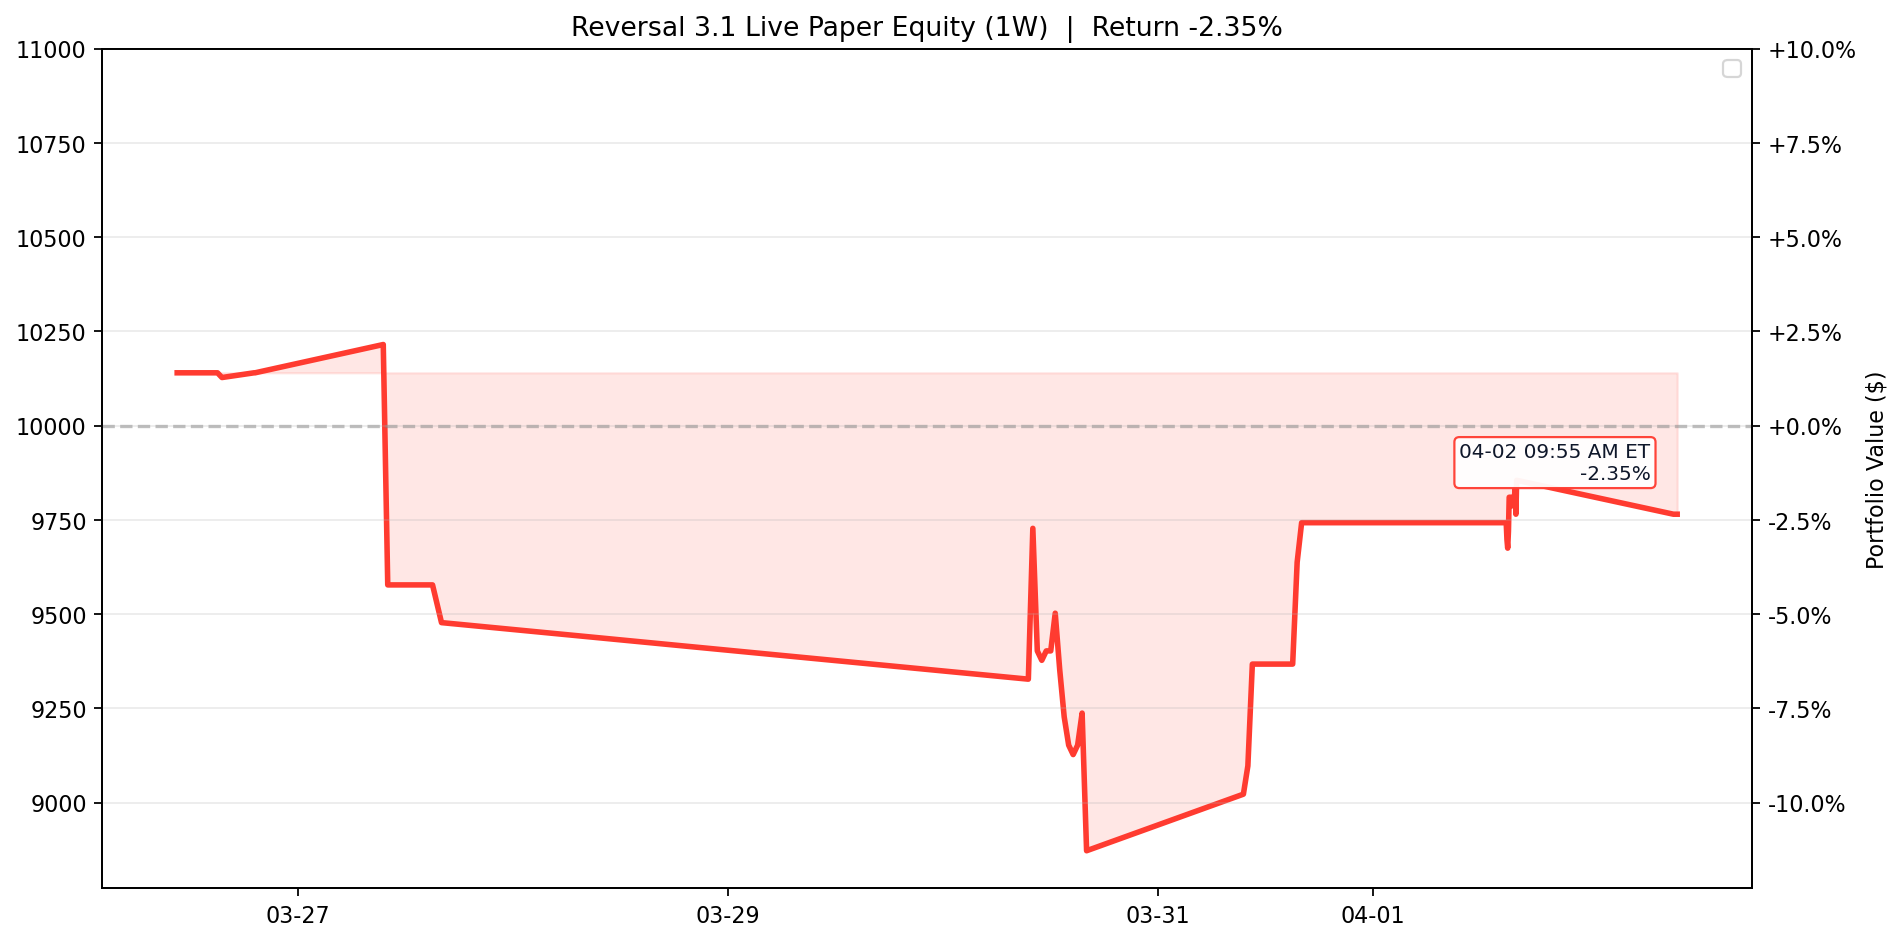
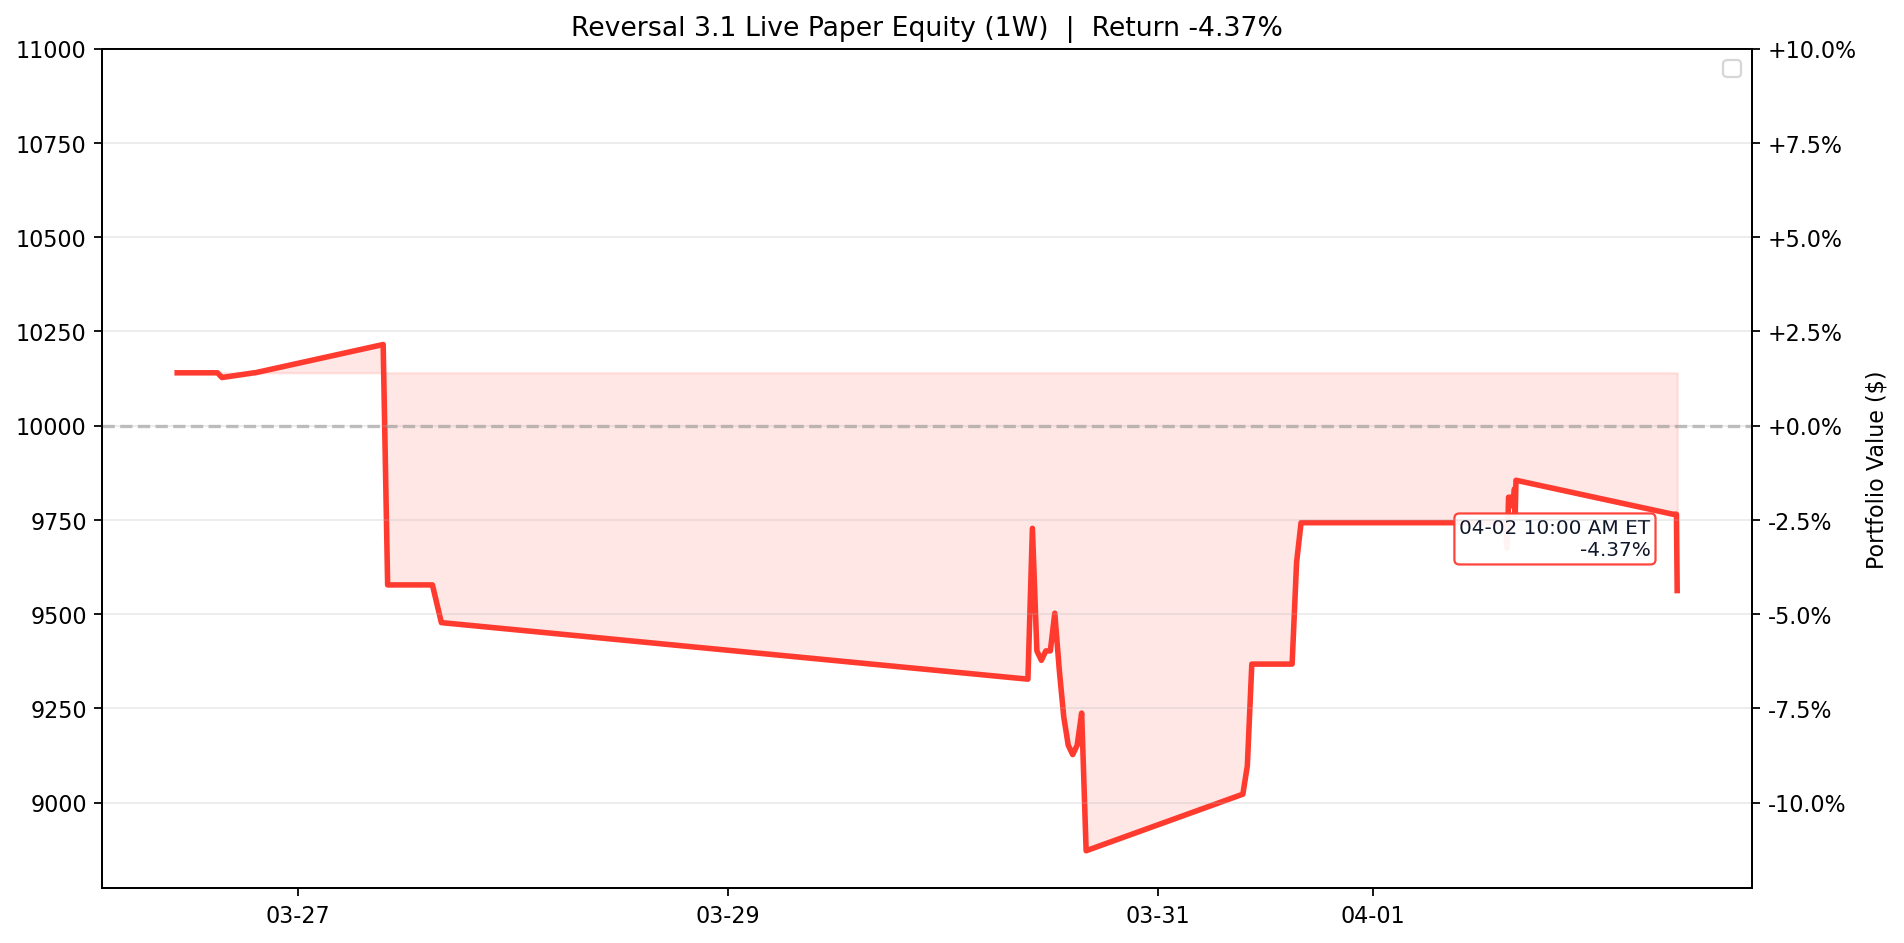
Update Reversal 3.1 live paper test 2026-04-02 10:00 ET

Changed region(s): [[0.7437, 0.4613, 0.8986, 0.6151], [0.5268, 0.6458, 0.5578, 0.7073]]

diff --git a/results/reversal_3_1_live/README.md b/results/reversal_3_1_live/README.md
@@ -1,6 +1,6 @@
 # Reversal 3.1 Live Paper Test
 
-Last updated (ET): `2026-04-02 09:55:03 EDT`
+Last updated (ET): `2026-04-02 10:00:03 EDT`
 Last processed slot: `manage_1000`
 
 ## Active Configuration
@@ -20,16 +20,16 @@ Last processed slot: `manage_1000`
 ## Portfolio Snapshot
 
 - Cash: `$5,355.00`
-- Equity: `$9,765.00`
+- Equity: `$9,562.50`
 - Realized PnL: `$-257.50`
-- Unrealized PnL: `$22.50`
+- Unrealized PnL: `$-180.00`
 - Open positions: `1`
 
 ## Open Positions
 
 ```text
 ticker     contract_symbol entry_trade_date  business_days_held  entry_option_price  current_option_price  entry_spot  current_spot  unrealized_pnl  unrealized_return_pct  success_rate  matched_signals  current_drop_pct  entry_iv_pct  current_iv_pct  rolling_sigma_20d_pct
-  NFLX NFLX260508C00096000       2026-04-01                   1                4.88                   4.9       95.56         95.68            22.5                   0.51         94.87               39              0.58         41.74            0.39                  24.42
+  NFLX NFLX260508C00096000       2026-04-01                   1                4.88                  4.68       95.56          95.7          -180.0                   -4.1         94.87               39              0.58         41.74            48.5                  24.42
 ```
 
 ## Today's Closed Trades (2026-04-02)
@@ -40,24 +40,25 @@ _None_
 
 ```text
 ticker  success_rate_%  matched_signals  current_drop_%  target_rebound_$  target_price  rolling_sigma_20d_%  call_candidate
-   HON          100.00               20            0.74              1.18        227.70                22.84            True
-   WDC           96.55               29            3.34              6.96        294.75                91.06            True
-   STX           93.10               29            2.15              6.37        420.39                80.16            True
-  ASML           92.86               14            2.85             27.17       1348.12                52.01            True
-  SBUX           92.59               27            0.95              0.60         90.17                36.02            True
-  FTNT           92.31               39            0.96              0.55         80.92                29.50            True
-  FAST           91.43               35            0.60              0.20         46.55                21.97            True
-  NVDA           91.30               23            1.47              1.80        174.98                36.98            True
-  DXCM           91.18               34            1.54              0.67         62.08                31.67            True
-  MPWR           90.32               31            1.44             11.26       1114.68                56.57            True
-  MRVL           88.89               18            3.23              2.41        105.68                92.70            True
-  UPRO           88.89               18            3.16              2.20         98.26                57.18            True
+   HON          100.00               23            0.52              0.83        227.84                22.84            True
+   WDC           96.55               29            2.98              6.20        295.07                91.06            True
+   STX           94.44               36            1.47              4.36        421.25                80.16            True
+  SBUX           94.12               34            0.67              0.43         90.25                36.02            True
+  FTNT           93.33               45            0.62              0.35         81.00                29.50            True
+  NVDA           92.59               27            1.02              1.25        175.21                36.98            True
+  FAST           91.89               37            0.56              0.18         46.55                21.97            True
+  MPWR           91.43               35            1.04              8.15       1116.02                56.57            True
+  DXCM           90.48               42            0.93              0.41         62.20                31.67            True
+  UPRO           90.48               21            2.63              1.82         98.39                57.18            True
+  MRVL           89.47               19            2.99              2.23        105.75                92.70            True
+  AVGO           86.96               23            2.00              4.39        311.61                41.97            True
 ```
 
 ## Recent Events
 
 ```text
                     timestamp_et         slot   event_type                          detail
+2026-04-02T10:00:03.566981-04:00  manage_1000 slot_skipped {"reason": "already_processed"}
 2026-04-02T09:55:03.086371-04:00  manage_1000 slot_skipped {"reason": "already_processed"}
 2026-04-02T09:40:05.889923-04:00  manage_0930 slot_skipped {"reason": "already_processed"}
 2026-04-02T09:35:05.879902-04:00  manage_0930 slot_skipped {"reason": "already_processed"}
@@ -67,7 +68,6 @@ ticker  success_rate_%  matched_signals  current_drop_%  target_rebound_$  targe
 2026-04-01T15:40:05.880995-04:00  manage_1530 slot_skipped {"reason": "already_processed"}
 2026-04-01T15:35:05.885345-04:00  manage_1530 slot_skipped {"reason": "already_processed"}
 2026-04-01T15:30:05.883058-04:00  manage_1530 slot_skipped {"reason": "already_processed"}
-2026-04-01T15:25:05.904161-04:00  manage_1530 slot_skipped {"reason": "already_processed"}
 ```
 
 ## Equity Curve (1W)

diff --git a/README.md b/README.md
@@ -3,8 +3,8 @@
 <!-- reversal-3.1-live:start -->
 ## Reversal 3.1 Live Paper Test
 
-- Last updated (ET): `2026-04-02 09:55:03 EDT`
-- Equity: `$9,765.00` | Realized: `$-257.50` | Unrealized: `$22.50` | Open positions: `1`
+- Last updated (ET): `2026-04-02 10:00:03 EDT`
+- Equity: `$9,562.50` | Realized: `$-257.50` | Unrealized: `$-180.00` | Open positions: `1`
 - Today closed trades: `0`
 - Current slot: `manage_1000`
 - Universe: `qqq_plus_leverage_etfs`
@@ -12,7 +12,7 @@
 
 ```text
 ticker     contract_symbol  current_option_price  unrealized_pnl  unrealized_return_pct  business_days_held
-  NFLX NFLX260508C00096000                   4.9            22.5                   0.51                   1
+  NFLX NFLX260508C00096000                  4.68          -180.0                   -4.1                   1
 ```
 
 ![Reversal 3.1 Live Equity 1W](assets/reversal_3_1_live_equity.png)
